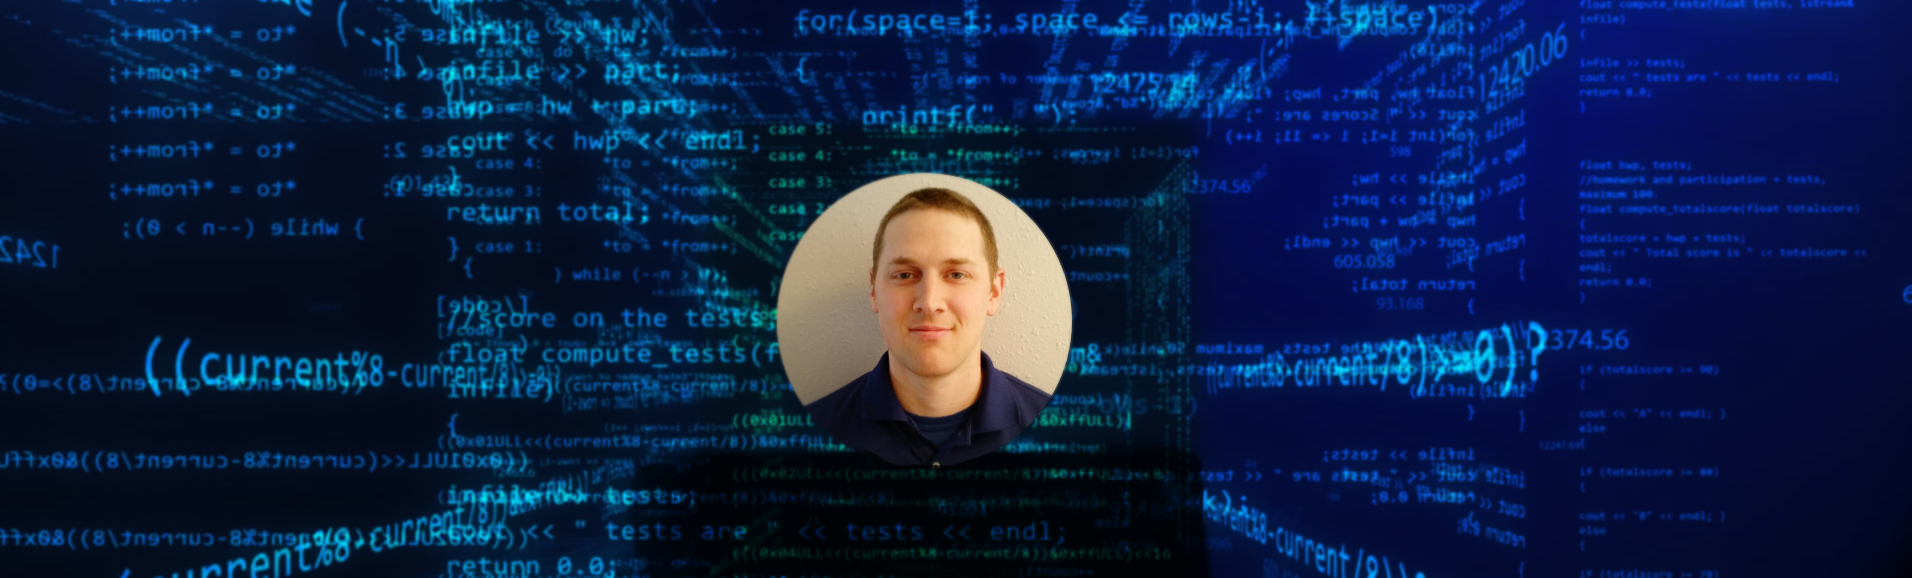
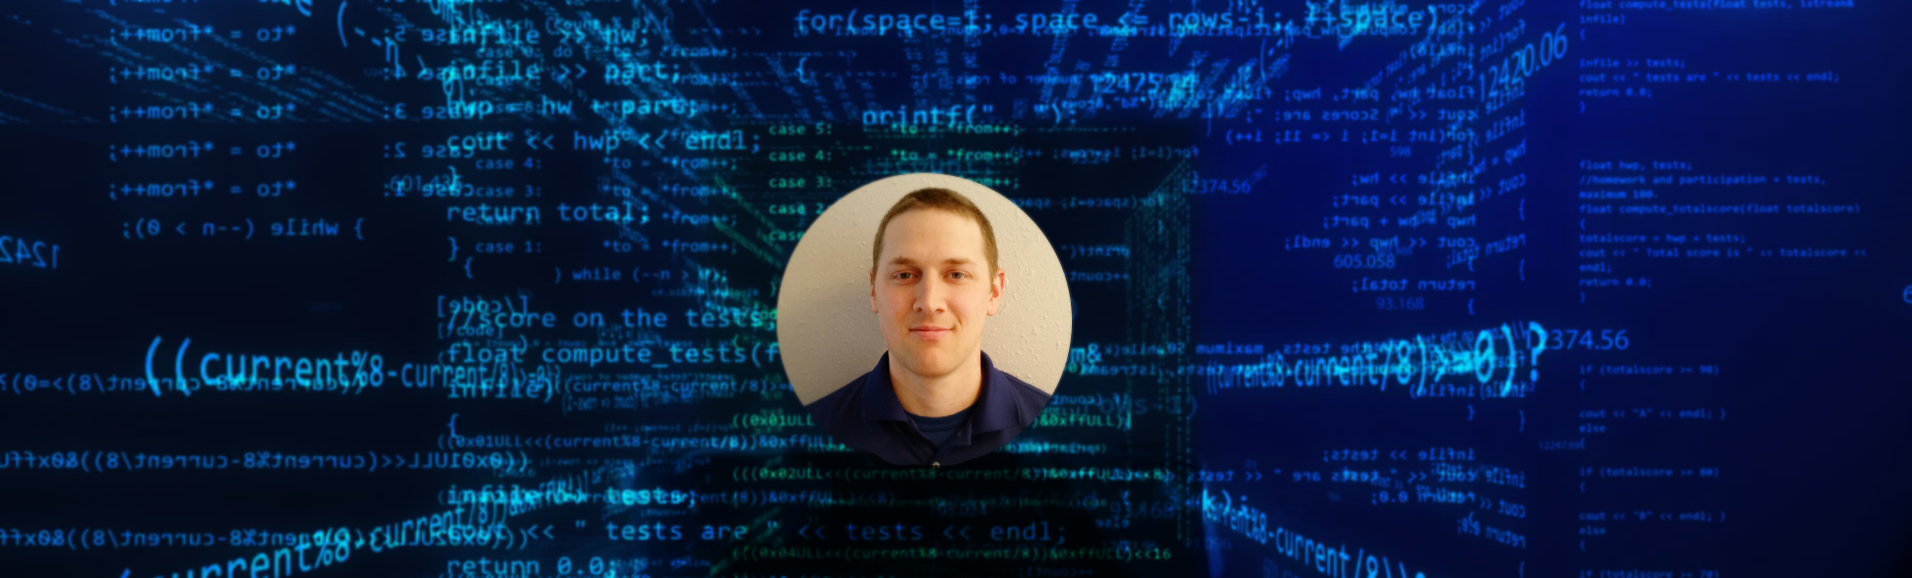
Centered text better on hero image header. Also made hero image have less noticable dark areas around the white text.

Changed region(s): [[0.3086, 0.7474, 0.432, 1.0], [0.5246, 0.7474, 0.648, 1.0]]

diff --git a/styles.css b/styles.css
@@ -21,6 +21,14 @@ hr {
     background-size: cover;
 }
 
+#maindiv header{
+    padding: 0 40px 0 0;
+}
+
+#maindiv p{
+    padding: 0 45px 0 0;
+}
+
 #navdiv {
     position: fixed;
     background:rgba(0, 0, 0, 0.4);

diff --git a/About/css/styles.css b/About/css/styles.css
@@ -59,6 +59,14 @@ footer nav ul li a{
     background-size: cover;
 }
 
+#maindiv header{
+    padding: 0 40px 0 0;
+}
+
+#maindiv p{
+    padding: 0 45px 0 0;
+}
+
 #navdiv {
     
     background:rgba(0, 0, 0, 0.4);
